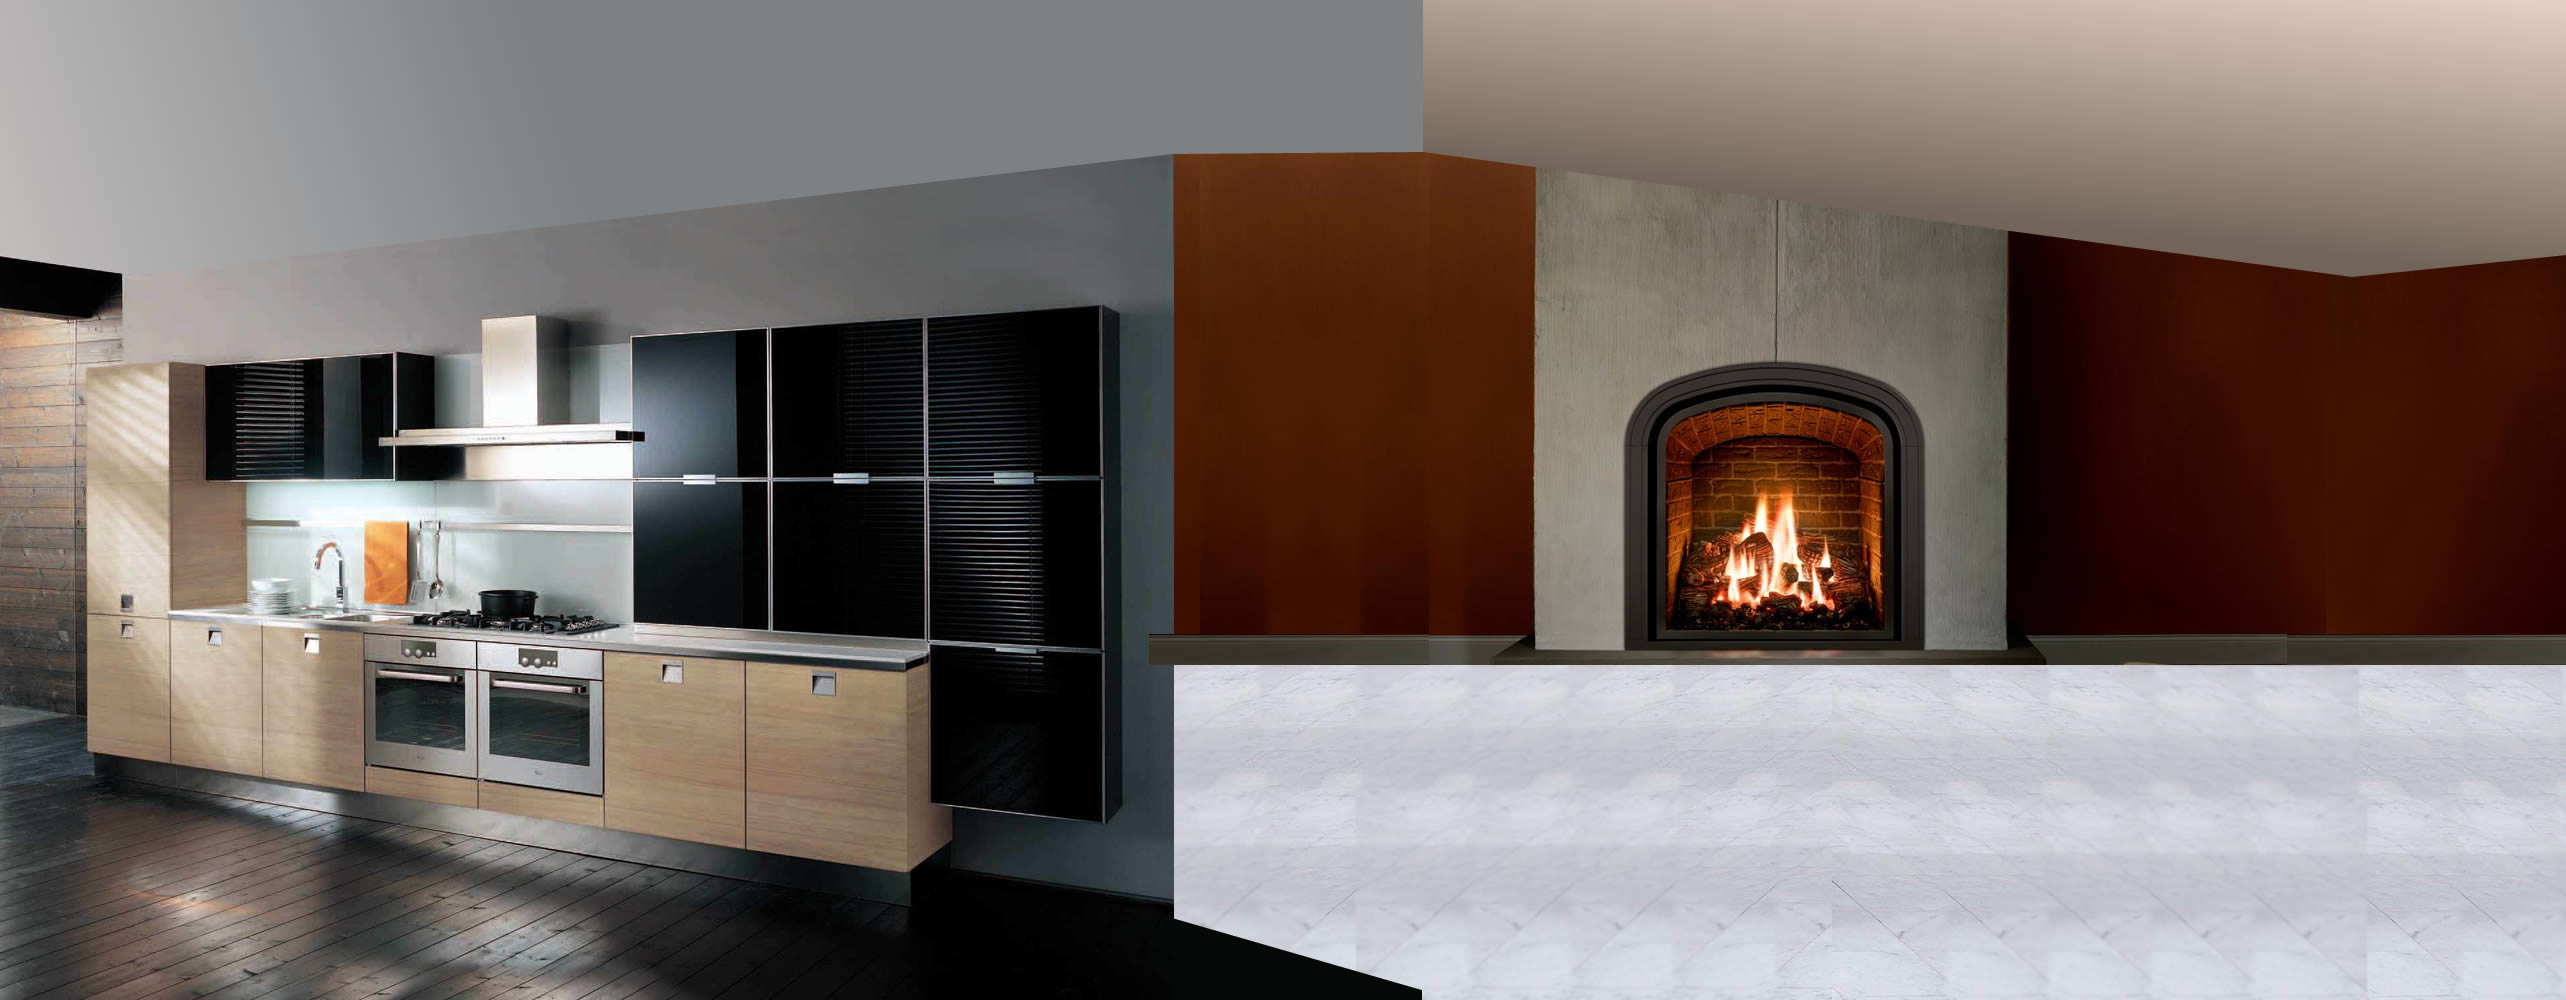
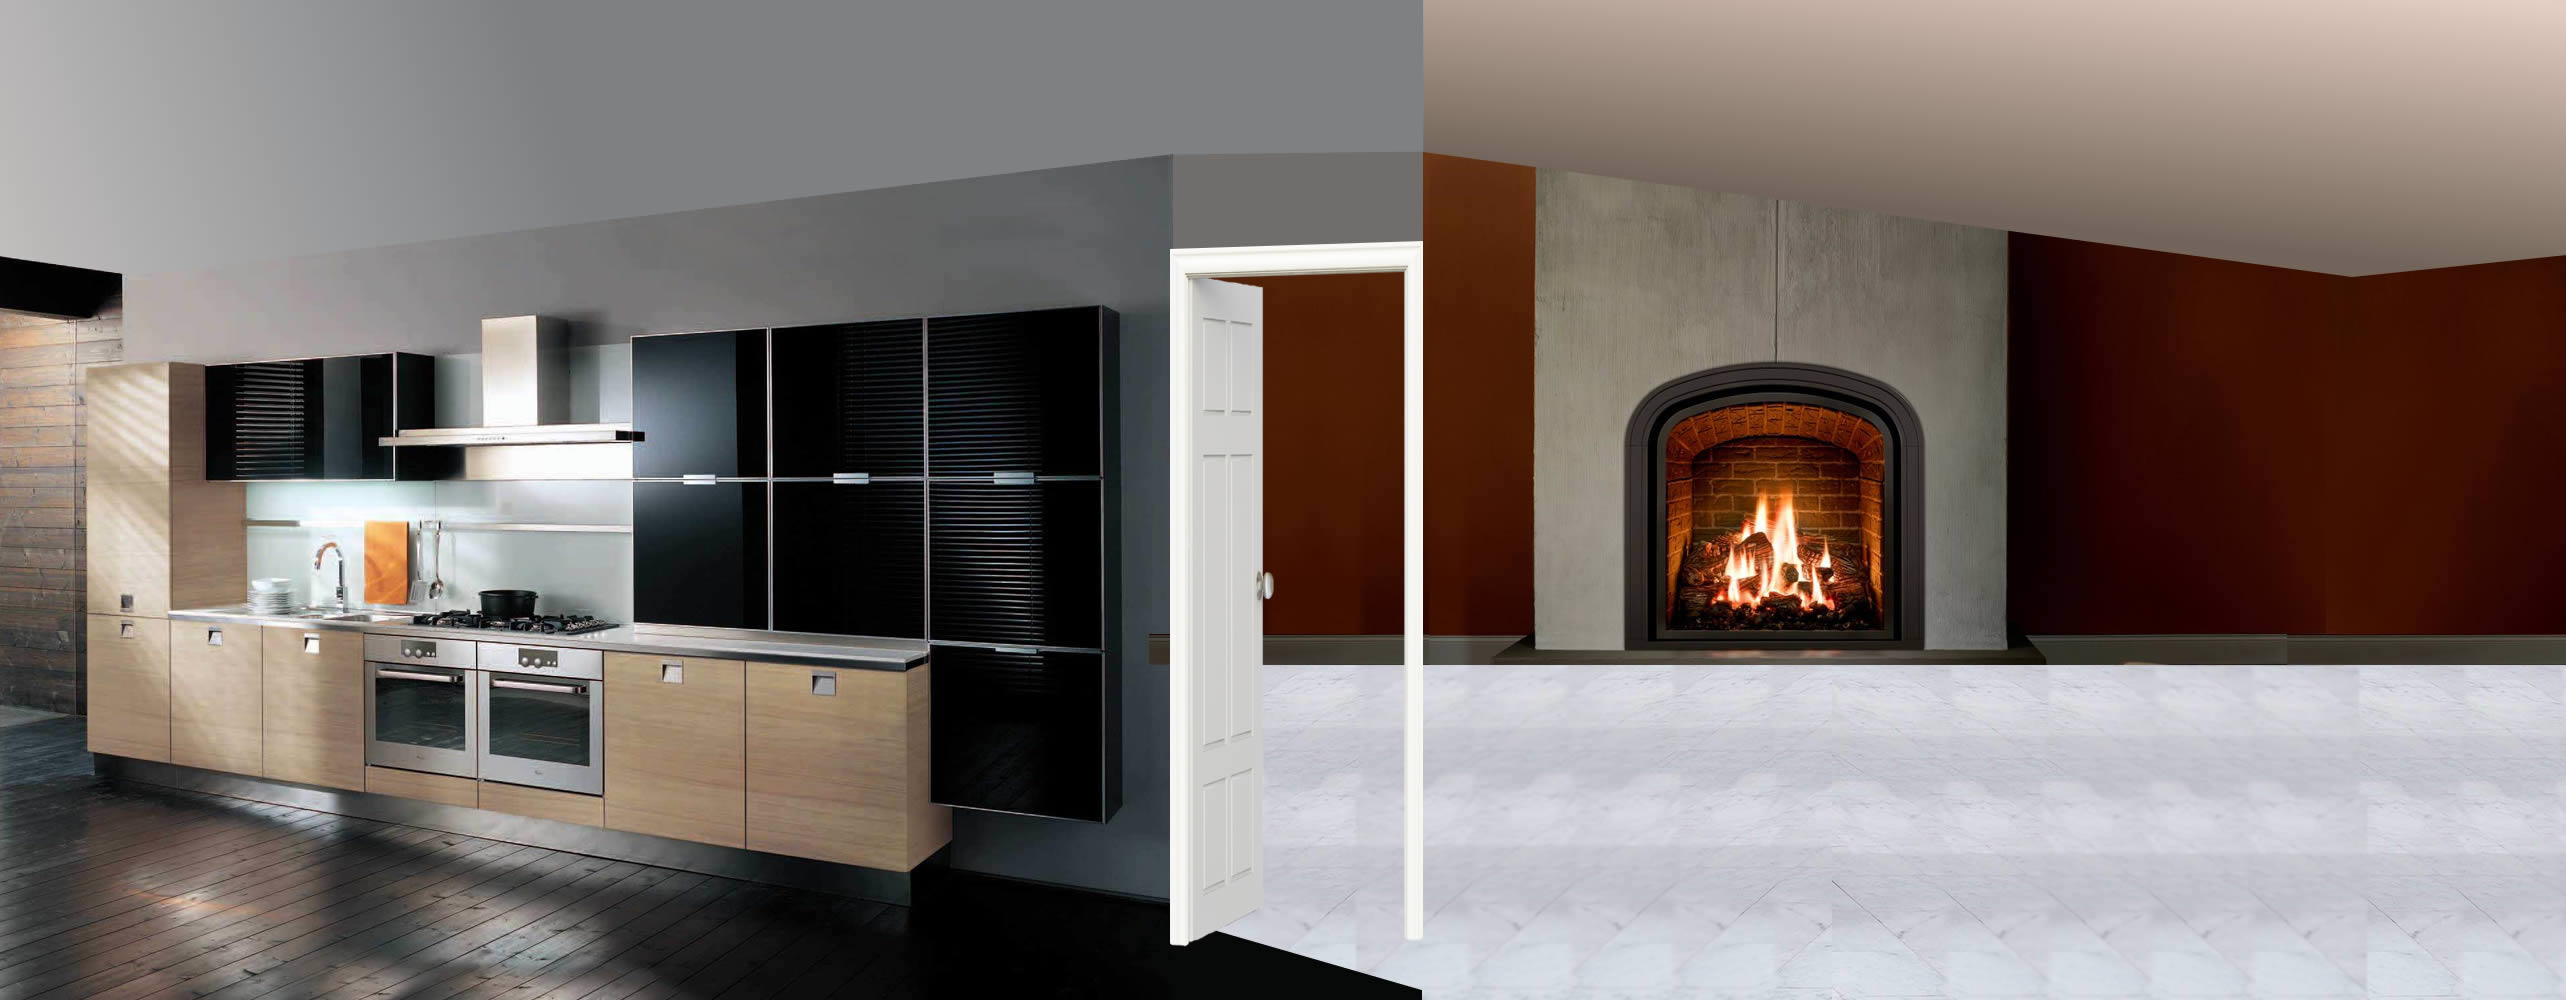
redid kitchen scene transition

Changed region(s): [[0.4365, 0.155, 0.5612, 0.961]]

diff --git a/css/main.css b/css/main.css
@@ -133,8 +133,8 @@ audio { display: none; }
 
 #scene1 .bg { background: #B51428 url('../img/scene1/bg.jpg') left bottom no-repeat fixed; }
 #scene2 .bg { background: #B51428 url('../img/scene2/bg-repeat.jpg') left top repeat fixed; }
-#scene3 .bg { background: #B51428 url('../img/scene3/bg.jpg') -4% bottom no-repeat fixed; } 
-#scene4 .bg {background:  url('../img/scene4/bg-2.png') left 105% repeat fixed }
+#scene3 .bg { background: #B51428 url('../img/scene3/bg.jpg') left bottom no-repeat fixed; } 
+#scene4 .bg {background:  url('../img/scene4/bg-2.png') left bottom repeat fixed }
 #scene4 .second-bg { background:url('../img/scene4/backroom-3.png') left 105% no-repeat fixed}
 #scene5 .bg { background:  #B51428 url('../img/scene5/bg.jpg') left bottom repeat fixed; }
 #scene6 .bg { background:  #017CD5 url('../img/scene-garageband/bg.jpg') left bottom no-repeat fixed; }
@@ -209,15 +209,15 @@ audio { display: none; }
 #max.max6 { background-position: 0 -1205px; }
 /* ===== Scene 3 ===== */
 
-#bg-test { position:absolute; background: url('../img/scene3/bg.jpg') no-repeat 0 0; width:2866px; height:1000px; bottom: 0px; left: -256px; } 
+#bg-test { position:absolute; background: url('../img/scene3/bg.jpg') no-repeat 0 0; width:2866px; height:1000px; bottom: -100px; left: 0px; }
 #bunny-2 { position:absolute; background: url('../img/scene3/bunny-2.png') no-repeat 0 0; width: 209px; height: 178px; left: 1182px; bottom:10px; }
 #bunny-big { position:absolute; background: url('../img/scene3/bunny-big.png') no-repeat 0 0; width: 437px; height: 391px; left: 1642px; bottom: -20px; }
 #know-your-memes {  position:absolute; background: url('../img/scene3/know-your-memes.png') no-repeat 0 0; width: 117px; height: 101px; left: 1542px; bottom: 300px; }
-#doorway { position:absolute; background: url('../img/scene3/doorway.png') no-repeat 0 0; width: 253px; height: 706px; /*left: 1172px;*/ left:1022px; bottom: 54px; }
-#couch { position:absolute; background: url('../img/scene3/couch.png') no-repeat 0 0; width: 1328px; height: 486px; left: 1242px; bottom: 0px; }
+#doorway { position:absolute; background: url('../img/scene3/doorway.png') no-repeat 0 0; width: 253px; height: 706px; left: 1172px; bottom: 54px; opacity:0; }
+#couch { position:absolute; background: url('../img/scene3/couch.png') no-repeat 0 0; width: 1328px; height: 486px; left: 1242px; bottom: 0px; opacity:0;}
 #kitchen-text { position:absolute; background: url('../img/scene3/kitchen-text.png') no-repeat 0 0; width: 354px; height: 253px; left: 50%; margin-left: -177px; bottom:380px; opacity: 0;}
 
-#ericw { position: absolute; bottom: 0; left: 25%; margin-left:  -215px; width: 391px; height: 887px; background: url('../img/scene3/eric-pancakes-sprite.png') no-repeat  -804px -1796px; }
+#ericw { position: absolute; bottom: 60px; left: 35%; margin-left:  -215px; width: 391px; height: 887px; background: url('../img/scene3/eric-pancakes-sprite.png') no-repeat  -804px -1796px; }
 #ericw.ericw1 { background-position: -804px -1796px; }
 #ericw.ericw2 { background-position: -402px -1796px; }
 #ericw.ericw3 { background-position: -0px -1796px; }
@@ -236,7 +236,7 @@ audio { display: none; }
 #ericw.ericw16 { background-position: -402px -0px; }
 #ericw.ericw17 { background-position: -0px -0px; }
 
-#grinch-burbs { position:absolute; left: 1017px; bottom:220px; width: 1446px; height: 616px; background: url('../img/scene3/grinch.png') no-repeat; }
+#grinch-burbs { position:absolute; left: 1172px; bottom:220px; width: 1446px; height: 616px; background: url('../img/scene3/grinch.png') no-repeat; }
 #grinch-burbs.grinch-burbs0 { background: url('../img/scene3/grinch-start.png') no-repeat;  }
 #grinch-burbs.grinch-burbs1 { background-position: -2914px -627px; }
 #grinch-burbs.grinch-burbs2 { background-position: -2914px -0px; }

diff --git a/js/main.js b/js/main.js
@@ -379,13 +379,13 @@ window.onload = function() {
 			{id:document.getElementById("back-row-houses"), start:2.8, end:2.99, x: 0, y:-30, type:"translate"},
 			{id:document.getElementById("front-row-houses"), start:2.8, end:2.99, x: 0, y:-40, type:"translate"},
 			{id:document.getElementById("lawn-ornaments"), start:2.8, end:2.99, x: 0, y:-35, type:"translate"},
-			{id:document.getElementById("s2bg"), start:2.92, end:2.99, x: 0, y:-50, type:"bgShift"},
-			{id:document.getElementById("lights"), start:2.92, end:2.99, x: 0, y:-300, type:"translate"},
 			{id:document.getElementById("gate"), start:2.82, end:2.9, x: 0, y:-750, type:"translate"},
-			{id:document.getElementById("gate"), start:2.94, end:2.99, x: 0, y:-300, type:"translate"},
-			{id:document.getElementById("ericw"), start: 2.92, end: 2.99, x: 100, y: 0, type:"translate"},
-			{id:document.getElementById("bg-test"), start: 2.92, end: 2.99, x: 104, y: 0, type:"translate"},
-			{id:document.getElementById("s3bg"), start: 2.92, end: 2.99, x: 4, y: 0, type:"bgShift"},
+			{id:document.getElementById("s2bg"), start:2.92, end:2.99, x: 0, y:-50, type:"bgShift"},
+			{id:document.getElementById("lights"), start:2.92, end:2.99, x: 0, y:-100, type:"translate"},
+			{id:document.getElementById("gate"), start:2.92, end:2.99, x: 0, y:-300, type:"translate"},
+			{id:document.getElementById("ericw"), start: 2.92, end: 2.99, x: 0, y:60, type:"translate"},
+			{id:document.getElementById("bg-test"), start: 2.92, end: 2.99, x: 0, y: -100, type:"translate"},
+			// {id:document.getElementById("s3bg"), start: 2.92, end: 2.99, x: 0, y: 0, type:"bgShift"},
 
 		
 		],
@@ -395,6 +395,8 @@ window.onload = function() {
 			
 			{id:document.getElementById("ericw"), start: 3.4, end: 3.6, x: -1000, y: 0, type:"translate"},
 			{id:document.getElementById("kitchen-text"), start: 3.1, end: 3.15, x: 1, y: 0, type:"opacity", audio: narrationSprite[3]},
+			{id:document.getElementById("doorway"), start: 3.1, end: 3.15, x: 1, y: 0, type:"opacity"},
+			{id:document.getElementById("couch"), start: 3.1, end: 3.15, x: 1, y: 0, type:"opacity"},
 			{id:document.getElementById("kitchen-text"), start: 3.4, end: 3.45, x: -1, y: 0, type:"opacity"},
 			{id:document.getElementById("bunny-2"), start: 3.4, end: 3.6, x: -1000, y: 0, type:"translate"},
 			{id:document.getElementById("bunny-big"), start: 3.4, end: 3.6, x: -1000, y: 0, type:"translate"},
@@ -402,7 +404,7 @@ window.onload = function() {
 			{id:document.getElementById("doorway"), start: 3.4, end: 3.6, x: -1000, y: 0, type:"translate"},
 			{id:document.getElementById("couch"), start: 3.4, end: 3.6, x: -950, y: 0, type:"translate"},
 			{id:document.getElementById("grinch-burbs"), start: 3.4, end: 3.6, x: -1000, y: 0, type:"translate"},
-			// {id:document.getElementById("bg-test"), start: 3.1, end: 3.15, x: 1, y: 0, type:"opacity"},
+
 			{id:document.getElementById("bg-test"), start: 3.4, end: 3.6, x: -1000, y: 0, type:"translate"},
 			{id:document.getElementById("poker"), start: 3.85, end: 3.99, x:0, y: -40, type:"translate"},
 			{id:document.getElementById("grinch-poker"), start: 3.80, end: 3.99, x:0, y: -20, type:"translate"},

diff --git a/index.html b/index.html
@@ -50,7 +50,7 @@
     <section id="scene2">
       <div id="s2bg" class="bg">
       <audio id="audio2" controls="false">
-        <source src="audio/Welcome-Christmas-Intro_LOOP.mp3" type="audio/mp3">
+        <source src="audio/Mean-One-Wind_LOOP.mp3" type="audio/mp3">
       </audio>
         <div class="animation">
           <div id="textbox1"></div>
